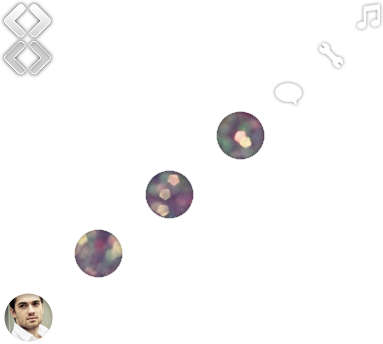
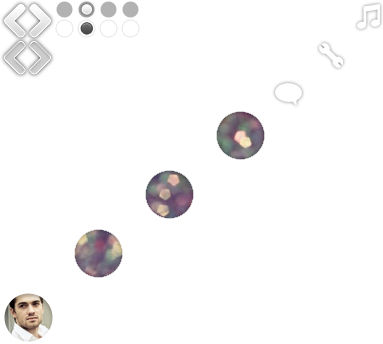
ДЗ№7. Доделал слайдер и хедер в целом. Начал фиолетовый блок.

Changed region(s): [[0.1436, 0.0, 0.3734, 0.1163]]

diff --git a/GoIT/markup/lesson7-8/index.html b/GoIT/markup/lesson7-8/index.html
@@ -23,37 +23,49 @@
 		</nav>
 	</section>
 	<section class="slider">
-			<a class="slider__arrow slider__arrow--left" href="#">left</a>
-			<a class="slider__arrow slider__arrow--right" href="#">right</a>
-		<div class="wrapper">
-			<div class="article article--slider">
-				<p class="heading1">lorem ipsum dolor</p>
-				<p class="heading3">it will make all of your dreams come true</p>
-				<p class="article__text">Semper sollicitudin gravida eget, vestibulum sit amet sapien. Nunc dignissim tincidunt est, et auctor turpis ornare a. Nam venenatis hendrerit est at volutpat. Morbi elementum euismod lacus id semper. In odio nunc, imperdiet eget aliquam quis, euismod id </p>
+		<div class="slider__wrapper">
+			<a class="slider__arrow slider__arrow--left" href="#"></a>
+			<a class="slider__arrow slider__arrow--right" href="#"></a>
+			<div class="wrapper">
+				<div class="article article--slider">
+					<p class="heading1">lorem ipsum dolor</p>
+					<p class="heading3">it will make all of your dreams come true</p>
+					<p class="article__text">Semper sollicitudin gravida eget, vestibulum sit amet sapien. Nunc dignissim tincidunt est, et auctor turpis ornare a. Nam venenatis hendrerit est at volutpat. Morbi elementum euismod lacus id semper. In odio nunc, imperdiet eget aliquam quis, euismod id </p>
+				</div>
+				<img class="slider__img" src="img/iphone_vid.png" alt="">
 			</div>
-			<img class="slider__img" src="img/iphone_vid.png" alt="">
 		</div>
+	</section>
+	<section class="wrapper">
+		<ul class="menu menu__slider">
+			<li class="menu__item"><a class="menu__circles menu__circles--slider" href="#"></a></li>
+			<li class="menu__item"><a class="menu__circles menu__circles--slider" href="#"></a></li>
+			<li class="menu__item"><a class="menu__circles menu__circles--slider" href="#"></a></li>
+			<li class="menu__item"><a class="menu__circles menu__circles--slider" href="#"></a></li>
+		</ul>
 	</section>
 </header>
 <!-- END OF HEADER -->
 <!-- MAIN -->
 <main>
-	<section> <!-- сюда поставим gradient -->
+	<section class="violet_block">
 		<!-- 3 same blocks with bg-icon, padding -->
-		<div>
-			<p></p>
-			<p></p>
-			<a href="#"></a>
-		</div>
-		<div>
-			<p></p>
-			<p></p>
-			<a href="#"></a>
-		</div>
-		<div>
-			<p></p>
-			<p></p>
-			<a href="#"></a>
+		<div class="wrapper">
+			<div class="article">
+				<p>123</p>
+				<p>123</p>
+				<a href="#">123</a>
+			</div>
+			<div class="article article--center">
+				<p>123</p>
+				<p>123</p>
+				<a href="#">123</a>
+			</div>
+			<div class="article article--right">
+				<p>123</p>
+				<p>123</p>
+				<a href="#">123</a>
+			</div>
 		</div>
 	</section>
 

diff --git a/GoIT/markup/lesson7-8/css/style.css b/GoIT/markup/lesson7-8/css/style.css
@@ -120,22 +120,33 @@ html, body{
 	background: rgba(0,0,0,0.2);
 }
 
-.slider__arrow{
-	display: block;
+.slider__wrapper{
+	margin: 0 auto;
+	width: 100%;
+	max-width: 1550px;
 }
 
-.slider__arrow--left{
-	position: absolute;
-	top: 183px;
-	left: 16.666667%;
+.slider__arrow{
+	display: block;
+	margin-top: 190px;
+	width: 24px;
+	height: 35px;
+}
 
-	
+.slider__arrow:hover{
+	-ms-background-position-y: -40px;
+	background-position-y: -40px;
+}	
+
+.slider__arrow--left{
+	float: left;
+	background: url(../img/icons.png) -3px -3px no-repeat;
 }
 
 .slider__arrow--right{
 	float: right;
+	background: url(../img/icons.png) -28px -3px no-repeat;
 }
-
 
 .heading1{
 	color: #fefefe;
@@ -177,4 +188,49 @@ html, body{
 	margin-top: -20px;
 	margin-right: 7.8125%;
 }
+
+.menu__slider{
+	clear: both;
+    padding-top: 80px;
+    margin-right: 18%;
+}
+
+.menu__circles{
+	display: block;
+}
+
+.menu__circles--slider{
+	width: 17px;
+	height: 17px;
+	background: url(../img/icons.png) -56px -1px no-repeat;
+}
+
+.menu__circles--slider:hover{
+	-ms-background-position-x: -78px;
+	background-position-x: -78px;
+}
+
 /* END OF HEADER */
+
+/* MAIN */
+
+/* VIOLET BLOCK*/
+
+.violet_block{
+	position: relative;
+	height: 340px;
+	background: rgba(116,80,131,1);
+	background: -moz-linear-gradient(top, rgba(116,80,131,1) 0%, rgba(50,37,57,1) 100%);
+	background: -webkit-gradient(left top, left bottom, color-stop(0%, rgba(116,80,131,1)), color-stop(100%, rgba(50,37,57,1)));
+	background: -webkit-linear-gradient(top, rgba(116,80,131,1) 0%, rgba(50,37,57,1) 100%);
+	background: -o-linear-gradient(top, rgba(116,80,131,1) 0%, rgba(50,37,57,1) 100%);
+	background: -ms-linear-gradient(top, rgba(116,80,131,1) 0%, rgba(50,37,57,1) 100%);
+	background: linear-gradient(to bottom, rgba(116,80,131,1) 0%, rgba(50,37,57,1) 100%);
+	filter: progid:DXImageTransform.Microsoft.gradient( startColorstr='#745083', endColorstr='#322539', GradientType=0 );
+}
+
+
+
+.menu__circles--article{
+
+}
